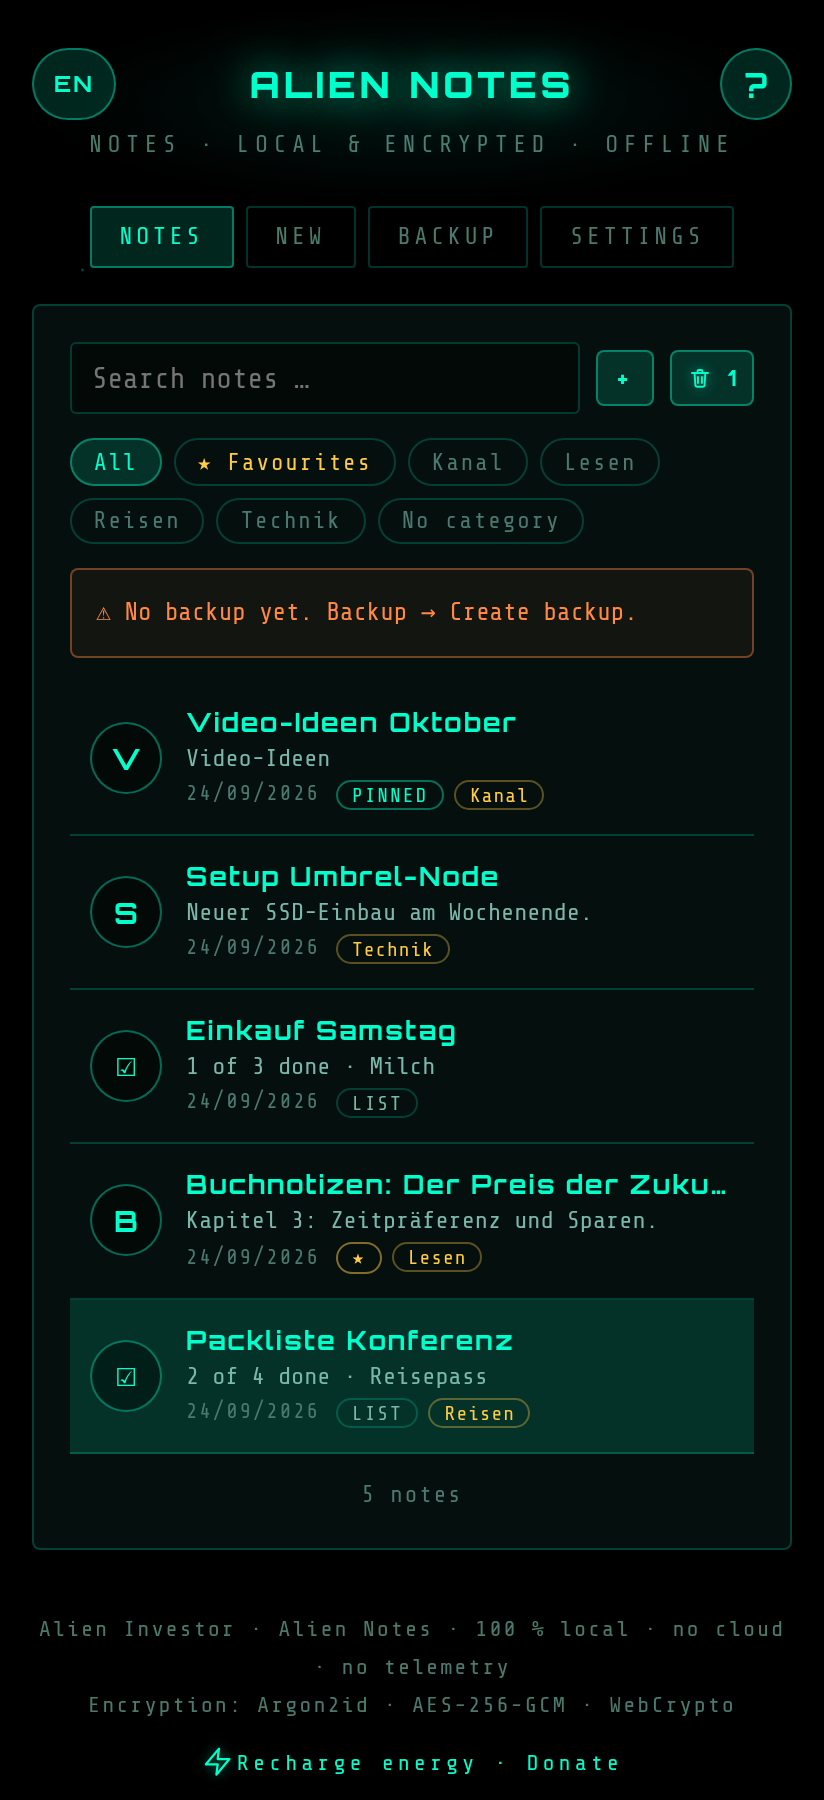
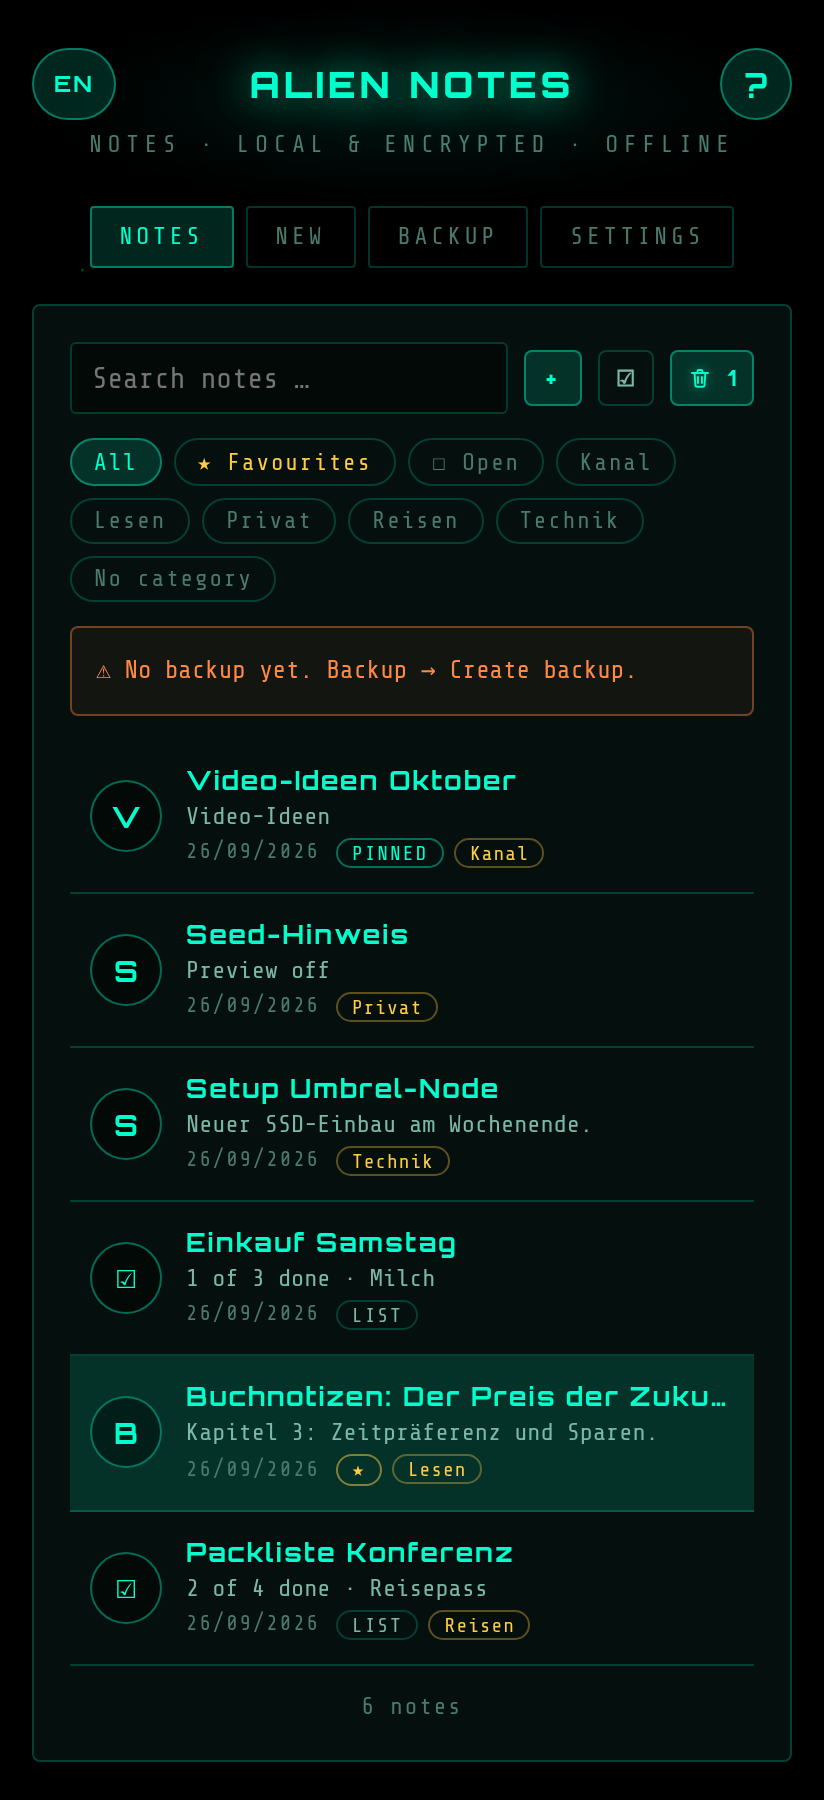
Release v1.1: Version 1.1 / Code 2, Changelog-Datum, README + Zap-Store-Listing, Store-Screenshots

diff --git a/app.js b/app.js
@@ -16,7 +16,7 @@ const FONT_KEY='ai-notes-font', FONT_SIZES=['m','l','xl'];
    ============================================================ */
 const LS_KEY = 'ai-notes-vault';
 const LANG_KEY = 'ai-notes-lang';
-const APP_VERSION = '0.1';   // Anzeige in den Einstellungen; muss VERSION_NAME entsprechen (build-www.sh setzt es aus VERSION, roundtrip-test.mjs prüft es)
+const APP_VERSION = '1.1';   // Anzeige in den Einstellungen; muss VERSION_NAME entsprechen (build-www.sh setzt es aus VERSION, roundtrip-test.mjs prüft es)
 
 /* ===== KIT: i18n — Deutsch ist Quelle im HTML (data-i18n / data-i18n-html / data-i18n-ph), Englisch im I18N-Dict,
    dynamische Texte per tr(key,{params}) aus T {de,en}. ===== */

diff --git a/README.md b/README.md
@@ -104,8 +104,16 @@ Schlüsselableitung schafft, und schlägt eine passende Argon2-Stufe vor.
 - **Markdown-Ansicht je Notiz** (Schalter, ab Werk aus): Überschriften (`#` bis `###`), **fett**, *kursiv*, Listen, Kästchen (`- [ ]`,
   `- [x]`), Code, Trennlinien. Eigene kleine Untermenge, kein Fremd-Renderer, kein HTML, Links bleiben bewusst reiner Text — die App hat
   ohnehin kein Netz. Ein Spickzettel im Editor zeigt „so tippen → so sieht es aus“ und fügt auf Wunsch eine Beispielnotiz ein.
-- **Kategorien** wie Ordner (frei eintippen, Vorschläge aus vorhandenen, Filter-Chips über der Liste), **Favoriten**, **angeheftete** Notizen
-  ganz oben, Suche über Titel, Text, Checklisten-Einträge und Kategorie. „Datum einfügen“ setzt Datum und Uhrzeit an den Cursor.
+- **Kategorien** wie Ordner (frei eintippen, Vorschläge aus vorhandenen, Filter-Chips über der Liste, umbenennen mit allen Notizen darin),
+  **Favoriten**, **angeheftete** Notizen ganz oben, Chip „Offen“ für Checklisten mit unerledigten Einträgen, Suche über Titel, Text,
+  Checklisten-Einträge und Kategorie. „Datum einfügen“ setzt Datum und Uhrzeit an den Cursor.
+- **Umzug von Standard Notes** (seit 1.1): liest ein entschlüsseltes Standard-Notes-Backup — das heruntergeladene ZIP direkt oder die Textdatei
+  daraus. Klartext-, Markdown-, Code-, Rich-Text- und Super-Notizen werden Notizen, Checklisten werden Checklisten, der erste Tag wird die
+  Kategorie. Authenticator-Einträge (2FA), Spreadsheets und Dateien werden nie übernommen; ein zweiter Import legt keine Dubletten an.
+- **Mehrere auf einmal** (seit 1.1): Notizen auswählen und gemeinsam in den Papierkorb legen (ein „Rückgängig“ für alle, höchstens 200 auf
+  einmal), in eine Kategorie setzen oder als Favorit markieren.
+- **„Rückgängig“ nach dem Löschen** (sechs Sekunden), **„Keine Vorschau“** je Notiz (die Liste zeigt nur den Titel), **drei Schriftgrößen**, und
+  jede Rückfrage ist ein Dialog im App-Design — der Android-Systemdialog erbt den Screenshot-Schutz nicht (seit 1.1).
 - **Kopieren** legt die ganze Notiz in die Zwischenablage; die App leert sie nach der eingestellten Zeit (ab Werk 30 s, abschaltbar) und beim
   Sperren. In der Android-App ist Kopiertes als **sensibel** markiert — die System-Vorschau zeigt den Inhalt nicht (Android 13+).
 - **Sperre, lockerer als beim Passwort-Manager:** ab Werk keine Sperre nach Inaktivität und im Hintergrund erst nach 30 Minuten (beides
@@ -181,7 +189,11 @@ Schlüsselableitung schafft, und schlägt eine passende Argon2-Stufe vor.
   keine Klartext-Lecks, keine Injektion; sieben Funde niedriger Schwere (Wettläufe zwischen Autosave und Sperre, Import bei offenem Editor,
   Laufzeitfalle im Markdown-Parser, unehrliche Rückfragen beim Typwechsel) und ein Hinweis, alle vor dem Release behoben. Ein Nachlauf
   prüfte den danach eingebauten Dateispeicher und die 20-MB-Schreibgrenze: ein Fund (die Toleranz der Grenze wanderte mit und ließ kleine
-  Schreibvorgänge die Datei schrittweise über die Lesegrenze treiben), ebenfalls vor dem Release behoben.
+  Schreibvorgänge die Datei schrittweise über die Lesegrenze treiben), ebenfalls vor dem Release behoben. **Zweiter interner Audit** (25./26.09.2026,
+  vor 1.1) über die neue Fläche: Standard-Notes-Import samt ZIP-Leser, Rückfrage-Dialog, Rückgängig, Mehrfachauswahl. Ergebnis: kein Weg vom
+  fremden Backup in Markup, Skript oder Prototyp; fünf Funde ohne Fremdakteur (zwei mittlerer Schwere: ein seit 0.1 bestehender Wettlauf beim
+  Speichern auf Android, der eine Änderung still verlieren konnte, und ein Rückgängig-Weg über die 5.000er-Grenze, der die Datei aussperrte; drei
+  niedriger Schwere rund um die Mehrfachauswahl), alle vor dem Release behoben und mit Regressionstests belegt.
 - **Grenzen, ehrlich benannt**: Im Hintergrund leert die Android-App die Zwischenablage nur, solange Android sie nicht eingefroren hat
   (meist nach dem zweiten App-Wechsel); danach erst beim Zurückkehren. Ab Android 13 leert das System nach etwa 1 h selbst, davor nicht.
   Die Tastatur lernt aus dem Getippten (eine WebView kann das nicht abschalten) — wer das nicht will, nutzt eine Tastatur ohne

diff --git a/CHANGELOG.md b/CHANGELOG.md
@@ -1,6 +1,6 @@
 # Changelog — Alien Notes
 
-## v1.1 — in Arbeit
+## v1.1 — 2026-09-26
 
 Rückfragen (Löschen und endgültig Löschen, Papierkorb leeren, Umwandeln, Haken zurücksetzen, schwache Passphrase, Import-Datei mit hohem
 Argon2-Speicherbedarf, Pforten deaktivieren, Notizen löschen, Standard-Notes-Import) erscheinen als eigener Dialog im App-Design statt als Systemdialog. Grund: Der Android-Systemdialog erbt den
